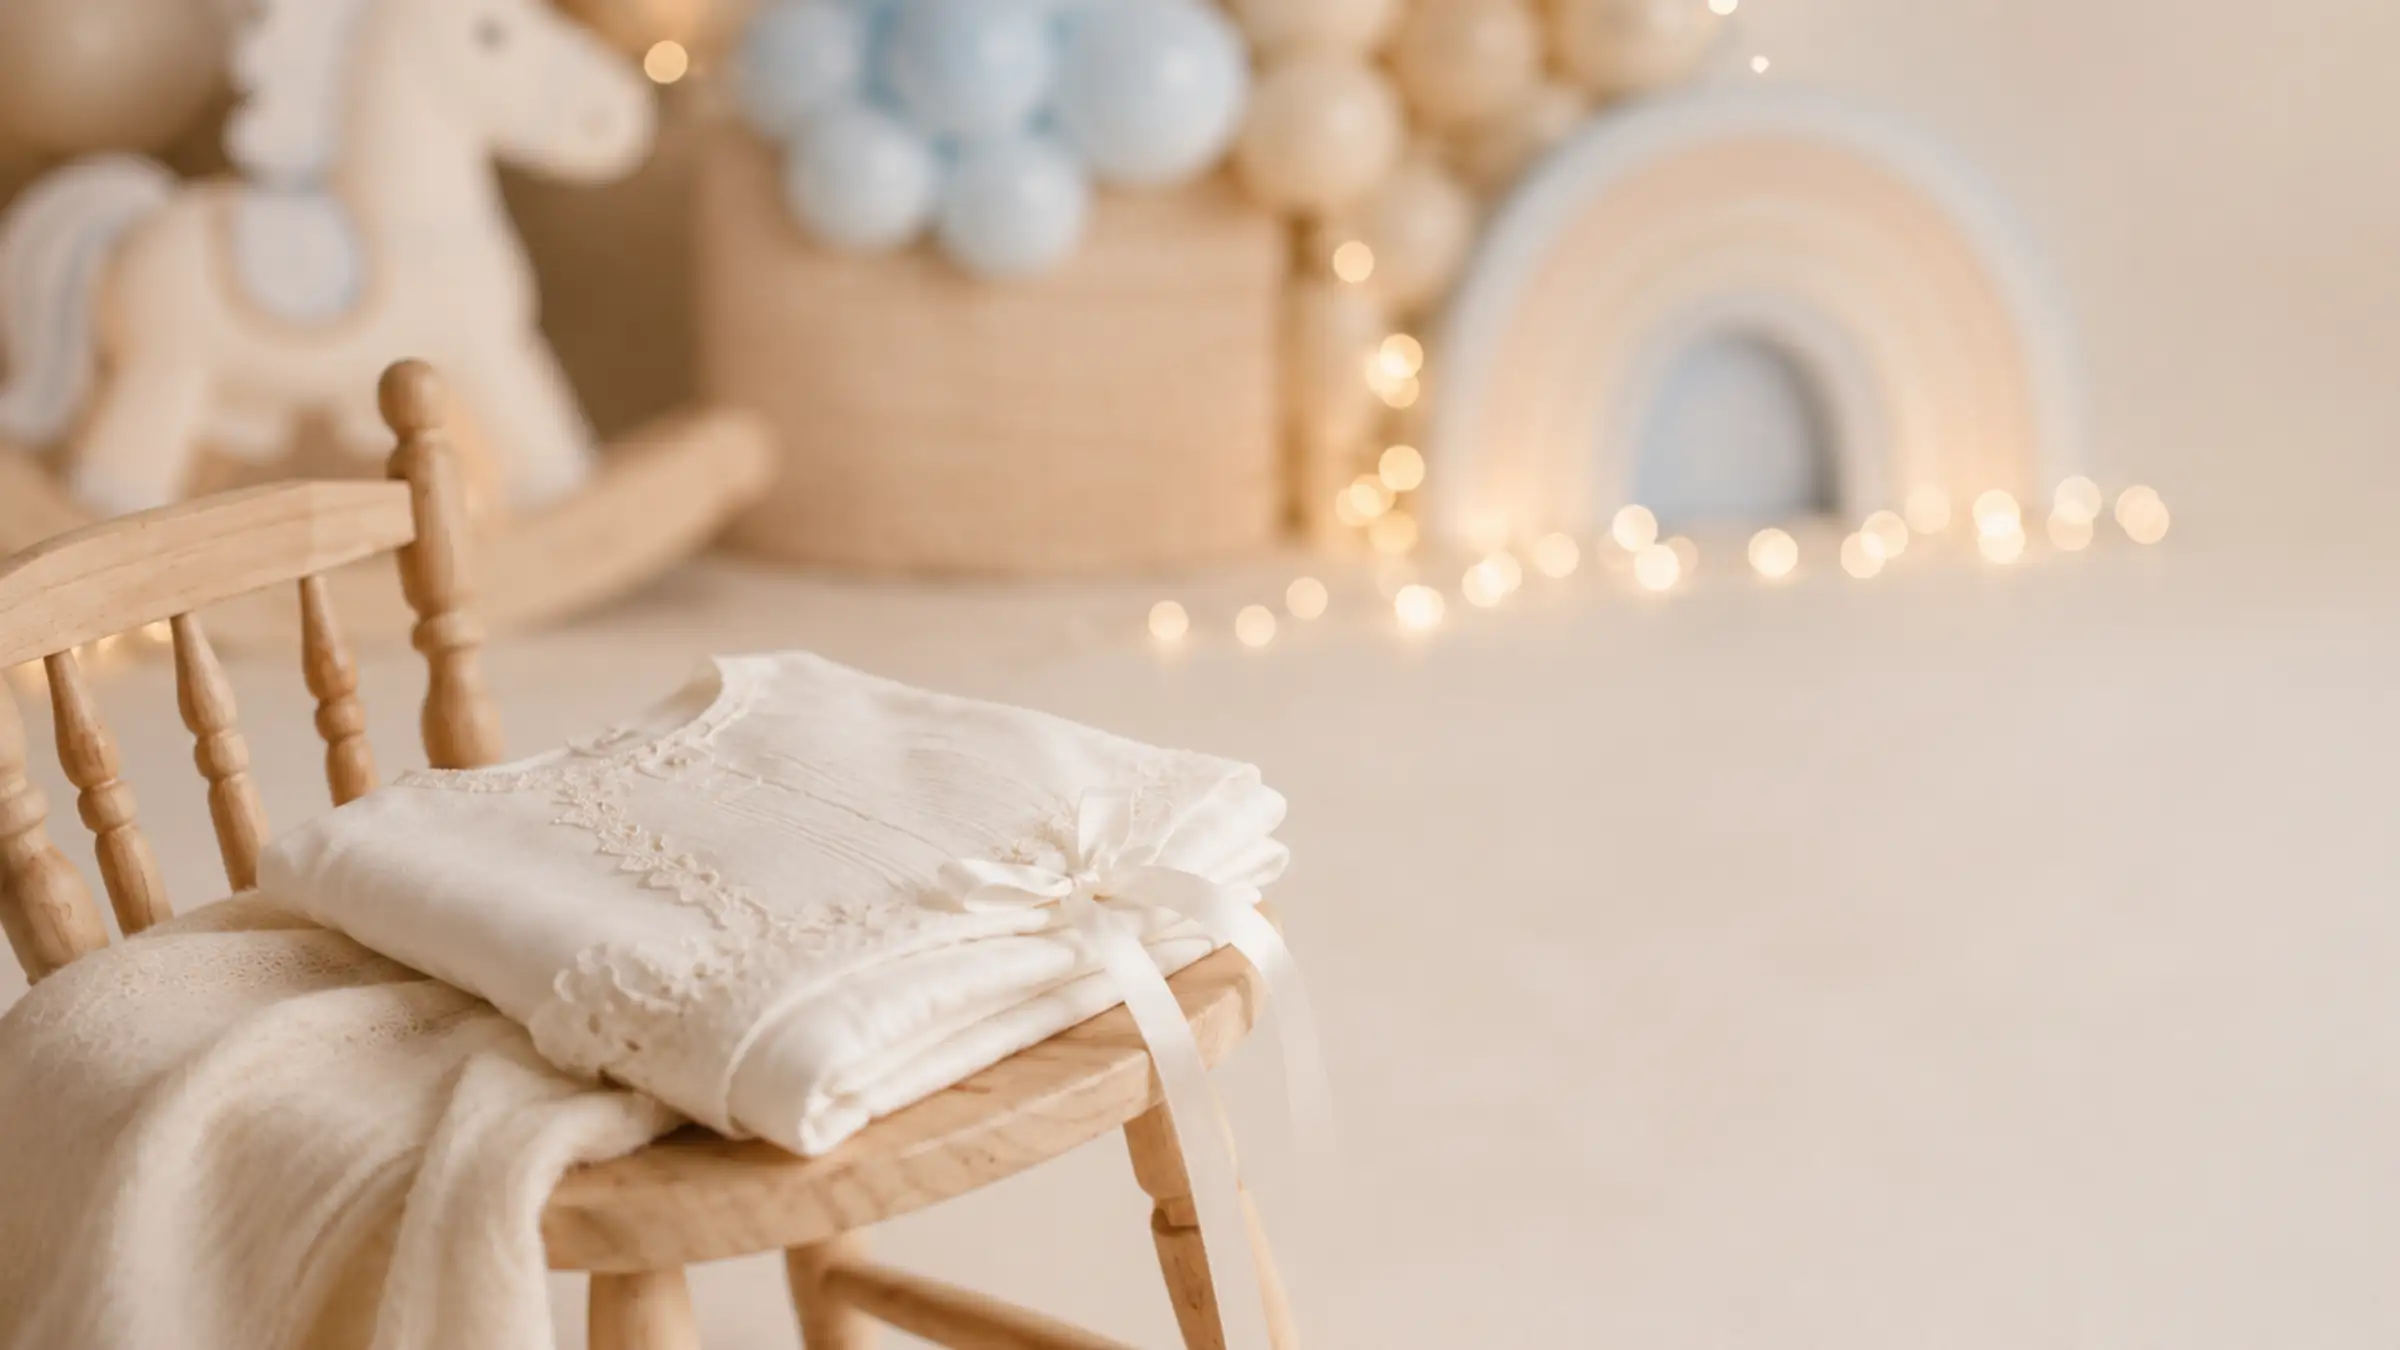
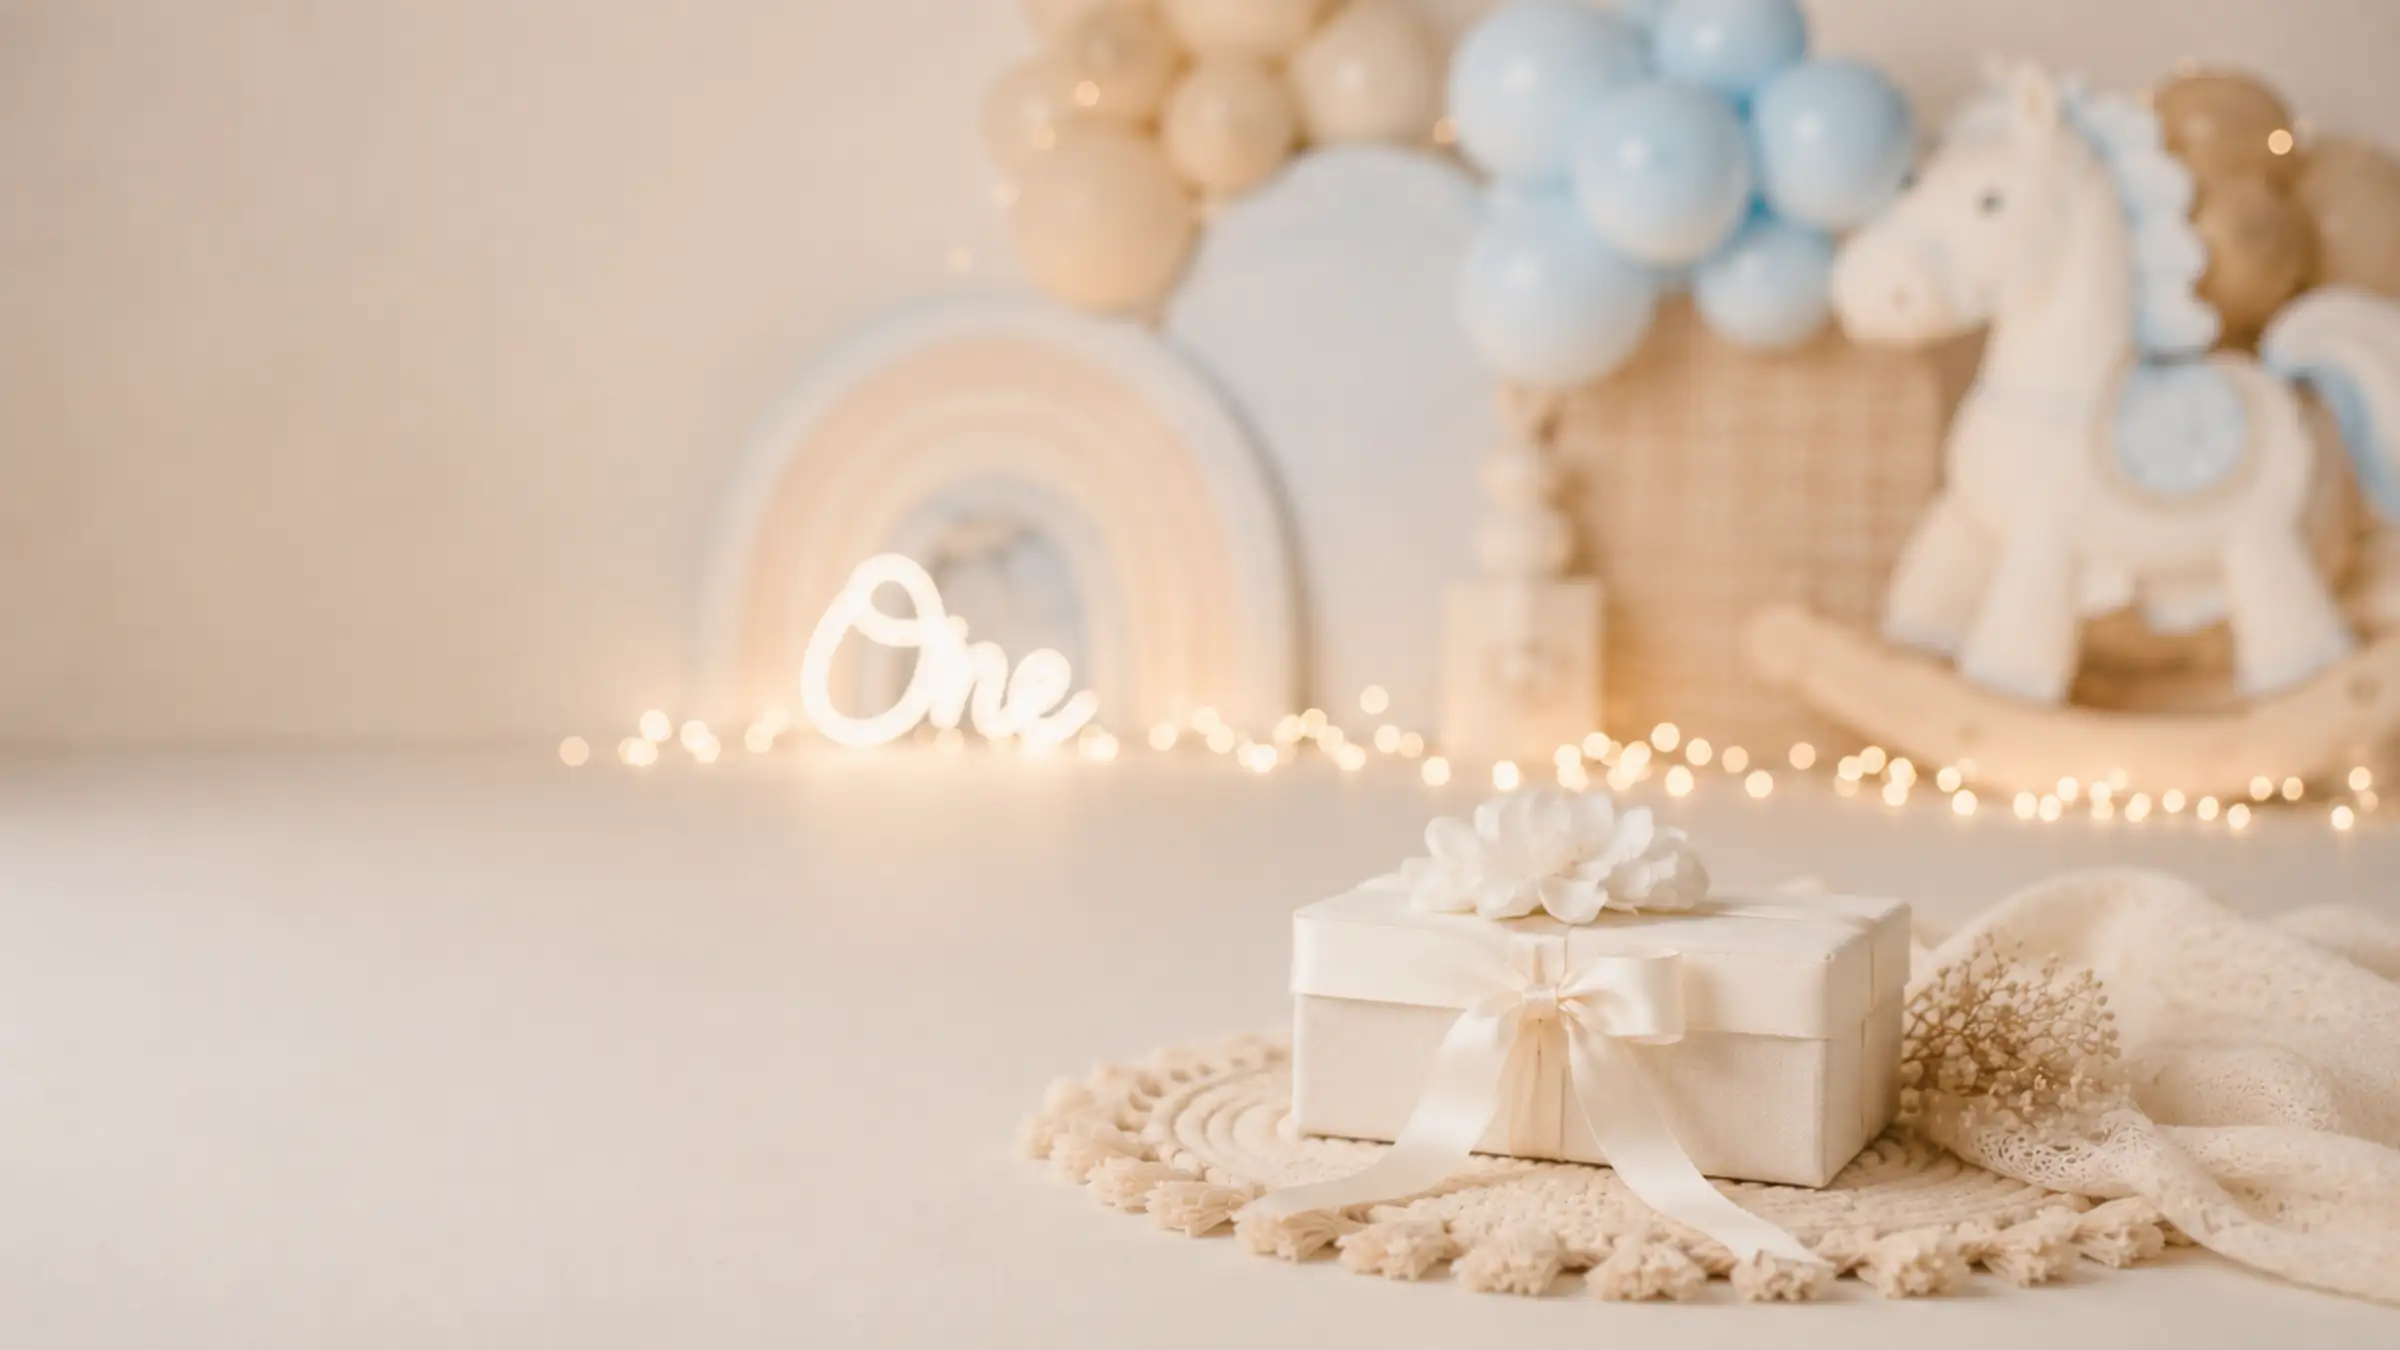
test(focal-point): add schema validation tests for focalPointSchema and focalPointPairSchema
- Add unit tests for focalPointSchema with valid cases (percentages, keywords, single values)
- Add unit tests for focalPointSchema with invalid cases (malformed strings, empty, extra values)
- Add unit tests for focalPointPairSchema ensuring both x and y values are present
- Test gallery per-item focalPoint by moving focalPoint from inline style to data attribute
- Binary update to interlude-02.webp image

diff --git a/tests/unit/image-layout.schema.test.ts b/tests/unit/image-layout.schema.test.ts
@@ -1,0 +1,103 @@
+import { focalPointSchema, focalPointPairSchema } from '@/lib/schemas/content/shared.schema';
+
+describe('focalPointSchema', () => {
+	const validCases = [
+		'50% 50%',
+		'10% 90%',
+		'0% 0%',
+		'100% 100%',
+		'50.5% 20.2%',
+		'center center',
+		'left top',
+		'right bottom',
+		'center 20%',
+		'10% top',
+		'center',
+		'left',
+		'right',
+		'10%',
+	];
+
+	const invalidCases = [
+		'broken',
+		'100 100',
+		'50% 50% extra',
+		'top left center',
+		'',
+		'10%% 20%',
+		'-10% 50%',
+		'50%center',
+		'centerbottom',
+		'top left',
+	];
+
+	it('accepts valid CSS object-position strings', () => {
+		const failures: string[] = [];
+		for (const val of validCases) {
+			const result = focalPointSchema.safeParse(val);
+			if (!result.success) {
+				failures.push(`"${val}" should be valid but failed: ${result.error.message}`);
+			}
+		}
+		expect(failures).toHaveLength(0);
+		if (failures.length > 0) {
+			throw new Error(`Valid cases failed:\n${failures.join('\n')}`);
+		}
+	});
+
+	it('rejects invalid strings', () => {
+		const failures: string[] = [];
+		for (const val of invalidCases) {
+			const result = focalPointSchema.safeParse(val);
+			if (result.success) {
+				failures.push(`"${val}" should be invalid but passed`);
+			}
+		}
+		expect(failures).toHaveLength(0);
+		if (failures.length > 0) {
+			throw new Error(`Invalid cases failed:\n${failures.join('\n')}`);
+		}
+	});
+});
+
+describe('focalPointPairSchema', () => {
+	const validCases = [
+		'50% 50%',
+		'10% 90%',
+		'center center',
+		'left top',
+		'right bottom',
+		'center 20%',
+		'10% top',
+	];
+
+	const invalidCases = ['center', 'left', '10%', 'broken', '100 100', ''];
+
+	it('accepts valid focal point pairs (both x and y)', () => {
+		const failures: string[] = [];
+		for (const val of validCases) {
+			const result = focalPointPairSchema.safeParse(val);
+			if (!result.success) {
+				failures.push(`"${val}" should be valid but failed: ${result.error.message}`);
+			}
+		}
+		expect(failures).toHaveLength(0);
+		if (failures.length > 0) {
+			throw new Error(`Valid pair cases failed:\n${failures.join('\n')}`);
+		}
+	});
+
+	it('rejects single-value and malformed strings', () => {
+		const failures: string[] = [];
+		for (const val of invalidCases) {
+			const result = focalPointPairSchema.safeParse(val);
+			if (result.success) {
+				failures.push(`"${val}" should be invalid but passed`);
+			}
+		}
+		expect(failures).toHaveLength(0);
+		if (failures.length > 0) {
+			throw new Error(`Invalid pair cases failed:\n${failures.join('\n')}`);
+		}
+	});
+});